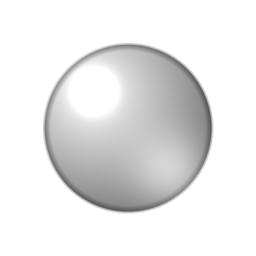
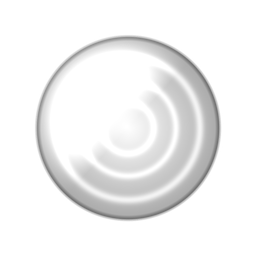
修复：大招第二次放不出来(真因) + cut-in 黑遮罩/位置 + 结算期间可点按钮 + 节点美术 v3
用户 2026-10-13 第二轮复测（MCP 截图逐项核对）：

1) ★"第二次释放终结技就消失了"的**真因**：SkillFxPlayer 的 _t 是全局累加时钟，
   只在有片段时才走；第一次放完后 _t 冻结在 ~2.5s，第二次 Play 的新片段 StartAt=0
   ⇒ local=_t-0=2.5 直接 >dur 被秒回收。修：Play 起播时记 _playStart，片段 StartAt 一律加它。
   （实测第二次 Play 后 0.6s 仍有 5 个片段存活）

2) ★cut-in 变黑遮罩 + 斜切背板看不见的**真因**：_whiteSprite 用 PPU=100 建，
   1×1 精灵自然尺寸=0.01 世界单位，按 halfW 缩放只有 0.2 单位 ⇒ 遮罩/背板/闪白全看不见。
   改成 PPU=1（自然尺寸=1 单位），三处一下都正常。cut-in 现为：全屏压黑 + 元素色斜切带 + 立绘 + 名字。
   立绘落点从 halfW*0.42 收到 halfW*0.12（"有点居右了"）。

3) ★"结算天时时还能点按钮"的**真因**：PlayLoop 设计上"一进待令就立刻亮操作区"，
   而回合始的棋盘/天时结算事件还在播 ⇒ 玩家能点、出手浪费。新增 CanCommandNow()
   = AwaitingCommand && !HasPendingEvent()；RefreshActionBar 与每帧兜底都用它，
   结算没播完一律置灰，播完才点亮（每帧兜底改双方向）。

4) 节点美术 v3：由"球+长杆(像炸弹)"改成**圆形水镜/玉碟**（同心涟漪 + 外缘墨边 + 左上高光），
   已通过节点插**短杆弯曲小旗**（不再像引线）。仍 256² 白底可染季色。

- C# 0 报错；MCP 实渲截图确认（cut-in 遮罩/背板/立绘、第二次可放）。截图归档 _归档_预览图/{cutin_v3_mask,node_art_v3}.png

diff --git a/Assets/WanXiang/Modules/Battle/Presentation/SkillFxPlayer.cs b/Assets/WanXiang/Modules/Battle/Presentation/SkillFxPlayer.cs
@@ -47,6 +47,7 @@ namespace WanXiang.Battle.Presentation
         // ---- CutIn 专用子物体 ----
         public SpriteRenderer Portrait;  // 异兽立绘
         public SpriteRenderer Slash;     // 元素色斜切背板
+        public SpriteRenderer Mask;      // 背后变黑的遮罩（聚焦主体）
         public TextMesh NameTm;          // 异兽名（LegacyRuntime 字体，支持中文）
         public Vector3 CutInFrom;        // cut-in 入场起点（屏幕外）
         public Vector3 CutInTo;          // cut-in 停驻点（立绘落点）
@@ -72,6 +73,7 @@ namespace WanXiang.Battle.Presentation
 
         private readonly List<SkillFxClip> _clips = new List<SkillFxClip>(16);
         private float _t;                 // 本地时钟（由 Step 累加）
+        private float _playStart;         // 本次 Play 起播时的 _t 值（片段 StartAt 都加上它）
         private bool _ready;
 
         /// <summary>舞台相机（用于全屏闪的尺寸与爆心换算）。BattleStage2D.Bind 时注入。</summary>
@@ -136,8 +138,11 @@ namespace WanXiang.Battle.Presentation
             _whiteTex = MakeWhite();
             _glowSprite = Sprite.Create(_glowTex, new Rect(0, 0, _glowTex.width, _glowTex.height),
                                         new Vector2(0.5f, 0.5f), 100f);
+            // ⚠ 白块用 **PPU=1**：这样 1×1 精灵的自然尺寸 = 1 世界单位，
+            //   Flash / CutIn 遮罩 / 斜切背板 都能直接按"世界单位"设 localScale。
+            //   以前 PPU=100 ⇒ 自然尺寸 0.01，按 halfW 缩放只有 0.2 单位，遮罩/背板/闪全看不见（用户 2026-10-13）。
             _whiteSprite = Sprite.Create(_whiteTex, new Rect(0, 0, _whiteTex.width, _whiteTex.height),
-                                         new Vector2(0.5f, 0.5f), 100f);
+                                         new Vector2(0.5f, 0.5f), 1f);
         }
 
         // ------------------------------------------------------------------
@@ -154,6 +159,11 @@ namespace WanXiang.Battle.Presentation
         {
             Ensure();
             if (_shaders == null || _shaders[0] == null) return;   // shader 没加载上就别播
+
+            // ★ 记下本次起播时刻：_t 是全局累加时钟（无片段时不涨），若不记偏移，
+            //   第二次放技能时新片段 StartAt=0 会被当成"已过期"秒回收 —— 用户 2026-10-13
+            //   报"第二次释放终结技就消失了，只能生效一次"。片段 StartAt 一律加 _playStart。
+            _playStart = _t;
 
             int seed = StableHash(actorId);
 
@@ -220,12 +230,24 @@ namespace WanXiang.Battle.Presentation
             float halfH = cam != null && cam.orthographic ? cam.orthographicSize : 5.4f;
             float halfW = halfH * (cam != null ? cam.aspect : 1.7f);
 
-            // 立绘落点：画面右侧（P5R 的 cut-in 多在右侧/居中），从更右的屏外切入
-            float targetX = halfW * 0.42f;
+            // 立绘落点：画面略偏右但不贴边（用户 2026-10-13："有点居右了" → 往里收）
+            float targetX = halfW * 0.12f;
             float fromX    = halfW * 1.15f;
             var portraitPos = new Vector3(targetX, worldPos.y * 0.3f + 0.2f, worldPos.z - 0.2f);
             go.transform.position = portraitPos;
             go.transform.SetParent(transform, true);   // 挂到播放器名下（保持世界坐标）
+
+            // ★ 背后变黑的遮罩（用户 2026-10-13："背后应该要有点变黑的遮罩"，聚焦主体）。
+            //   全屏黑块，sortingOrder 最低（画在最底），透明度由 UpdateCutIn 淡入淡出。
+            var maskGo = new GameObject("Mask");
+            maskGo.transform.SetParent(go.transform, false);
+            var camPos = cam != null ? cam.transform.position : new Vector3(0f, 0f, -10f);
+            maskGo.transform.position = new Vector3(camPos.x, camPos.y, portraitPos.z - 0.5f);
+            var mask = maskGo.AddComponent<SpriteRenderer>();
+            mask.sprite = _whiteSprite;
+            mask.color = new Color(0f, 0f, 0f, 0f);   // 初始透明
+            mask.sortingOrder = 450;
+            maskGo.transform.localScale = new Vector3(halfW * 2.4f, halfH * 2.4f, 1f);
 
             // 元素色斜切背板（立在立绘后面，给"卡片"感）
             var slashGo = new GameObject("Slash");
@@ -277,8 +299,8 @@ namespace WanXiang.Battle.Presentation
 
             var clip = new SkillFxClip
             {
-                Kind = SkillFxKind.CutIn, StartAt = 0f, Dur = Mathf.Max(0.2f, dur),
-                Col = core, Go = go, Slash = slash, NameTm = nameTm,
+                Kind = SkillFxKind.CutIn, StartAt = _playStart, Dur = Mathf.Max(0.2f, dur),
+                Col = core, Go = go, Slash = slash, Mask = mask, NameTm = nameTm,
                 CutInFrom = new Vector3(fromX, portraitPos.y, portraitPos.z),
                 CutInTo = portraitPos,
             };
@@ -293,7 +315,7 @@ namespace WanXiang.Battle.Presentation
         {
             var clip = new SkillFxClip
             {
-                Kind = kind, StartAt = startAt, Dur = Mathf.Max(0.02f, dur),
+                Kind = kind, StartAt = _playStart + startAt, Dur = Mathf.Max(0.02f, dur),
                 Pos = pos, SizeMul = size, RayCount = Mathf.Clamp(rayCount, 3, 24),
                 RaySharp = raySharp, Seed = seed, Intensity = intensity, Col = col,
                 RingCount = Mathf.Max(1, ringCount),
@@ -435,7 +457,8 @@ namespace WanXiang.Battle.Presentation
             float halfW = (Cam != null ? Cam.aspect : 1.7f) * (Cam != null && Cam.orthographic ? Cam.orthographicSize : 5.4f);
 
             float x;
-            float alpha = 1f;
+            float alpha = 1f;          // 立绘/名字/背板整体透明度（甩出时淡出）
+            float maskA = 0.62f;       // 背后黑遮罩目标透明度
             const float In = 0.28f, Out = 0.80f;   // 切入段 / 甩出段起点（中间 0.52 段为停驻，看得清）
             if (p < In)
             {
@@ -444,6 +467,7 @@ namespace WanXiang.Battle.Presentation
                 float c1 = 1.70158f, c3 = c1 + 1f;
                 float e = 1f + c3 * Mathf.Pow(k - 1f, 3f) + c1 * Mathf.Pow(k - 1f, 2f);
                 x = Mathf.Lerp(c.CutInFrom.x, c.CutInTo.x, e);
+                maskA = 0.62f * Mathf.Clamp01(k * 1.5f);   // 遮罩抢先压黑（比立绘先到位）
             }
             else if (p < Out)
             {
@@ -453,6 +477,7 @@ namespace WanXiang.Battle.Presentation
                 tr.localPosition = new Vector3(x, c.CutInTo.y + Mathf.Sin(k * Mathf.PI * 2f) * 0.05f, c.CutInTo.z);
                 // 背板呼吸高亮
                 if (c.Slash != null) c.Slash.color = new Color(c.Col.r, c.Col.g, c.Col.b, 0.45f + 0.18f * Mathf.Sin(k * Mathf.PI));
+                if (c.Mask != null) c.Mask.color = new Color(0f, 0f, 0f, 0.62f);
                 return;
             }
             else
@@ -461,6 +486,7 @@ namespace WanXiang.Battle.Presentation
                 float k = (p - Out) / (1f - Out);
                 x = Mathf.Lerp(c.CutInTo.x, -halfW * 1.1f, k * k);
                 alpha = 1f - k;
+                maskA = 0.62f * (1f - k);
             }
 
             tr.localPosition = new Vector3(x, c.CutInTo.y, c.CutInTo.z);
@@ -469,6 +495,7 @@ namespace WanXiang.Battle.Presentation
             if (c.Portrait != null) { var cc = c.Portrait.color; c.Portrait.color = new Color(cc.r, cc.g, cc.b, alpha); }
             if (c.Slash != null)    { var cc = c.Slash.color;    c.Slash.color    = new Color(cc.r, cc.g, cc.b, cc.a * alpha); }
             if (c.NameTm != null)   { var cc = c.NameTm.color;   c.NameTm.color   = new Color(cc.r, cc.g, cc.b, alpha); }
+            if (c.Mask != null)     c.Mask.color = new Color(0f, 0f, 0f, maskA * alpha);
         }
 
         private void Recycle(int i)

diff --git a/Assets/WanXiang/Modules/UI/BattlePanel.cs b/Assets/WanXiang/Modules/UI/BattlePanel.cs
@@ -326,16 +326,22 @@ namespace WanXiang.Modules.UI
             if (!_playing) return;
             if (State != UIPanelState.Opened) return;      // 被上层盖住/暂停时不推进
 
-            // ★ 每帧兜底按钮状态（**不分场景/非场景模式** —— 以前这段在 `_stage==null` 之后，
-            //   主城内直接打（无舞台）时永远跑不到，敌人回合按钮还亮着。用户 2026-10-13）：
-            //   不是"等我方下令"的决策点（敌人行动/伤害结算/自动推进）就立刻置灰技能/连携。
+            // ★ 每帧兜底按钮状态（**不分场景/非场景模式**）：
+            //   只有"等我方下令 + 回合始结算事件已播完"才给点（CanCommandNow），否则置灰。
+            //   以前只看 AwaitingCommand ⇒ 结算还在飘字时就能点（用户 2026-10-13 报障）。
+            //   这里管**两个方向**：给点 → 按规则点亮(RefreshActionBar)；不给点 → 全置灰 + 收觉醒槽。
             if (_play != null)
             {
-                bool canAct = _play.AwaitingCommand && !_play.Finished;
+                bool canAct = CanCommandNow();
                 if (canAct != _actionEnabled)
                 {
                     _actionEnabled = canAct;
-                    if (!canAct)
+                    if (canAct)
+                    {
+                        RefreshActionBar();        // 结算播完、轮到我方 → 按规则逐条点亮
+                        RefreshComboButton();
+                    }
+                    else
                     {
                         SetSkillButtonsInteractable(false);
                         // 觉醒技槽一并收起：敌人回合/结算时不该露着（避免误悬浮弹出"没有装备觉醒技"）

diff --git a/Assets/WanXiang/Modules/UI/BattlePanel.ActionBar.cs b/Assets/WanXiang/Modules/UI/BattlePanel.ActionBar.cs
@@ -166,6 +166,17 @@ namespace WanXiang.Modules.UI
             }
         }
 
+        /// <summary>
+        /// 现在能不能下令：正等我方下令 + **没有"已产生但还没播完"的事件**。
+        /// ★ 关键：回合开始那一串棋盘/天时结算（回血扣血、相生、出手序列）是"待令之后才播完"的，
+        ///   只看 AwaitingCommand 的话，玩家会在结算还在飘字时就能点按钮 → 出手被浪费（用户 2026-10-13 报障）。
+        ///   HasPendingEvent() 为真 = 还有事件在播 → 此时一律不给点。
+        /// </summary>
+        private bool CanCommandNow()
+        {
+            return _play != null && _play.AwaitingCommand && !_play.Finished && !HasPendingEvent();
+        }
+
         private void RefreshActionBar()
         {
             if (_actionBar == null || _play == null) return;
@@ -176,8 +187,8 @@ namespace WanXiang.Modules.UI
                 _actionBar.gameObject.SetActive(show);
             if (!show) return;
 
-            // 只有"等我方下令"的决策点才能行动；敌人行动/伤害结算/自动推进中一律置灰不可点。
-            bool canAct = _play.AwaitingCommand && !_play.Finished;
+            // 只有"等我方下令 + 结算事件已播完"才能行动；敌人行动/伤害结算/自动推进中一律置灰不可点。
+            bool canAct = CanCommandNow();
 
             var u = _play.PendingUnit;
             if (_autoBattle && u == null)
